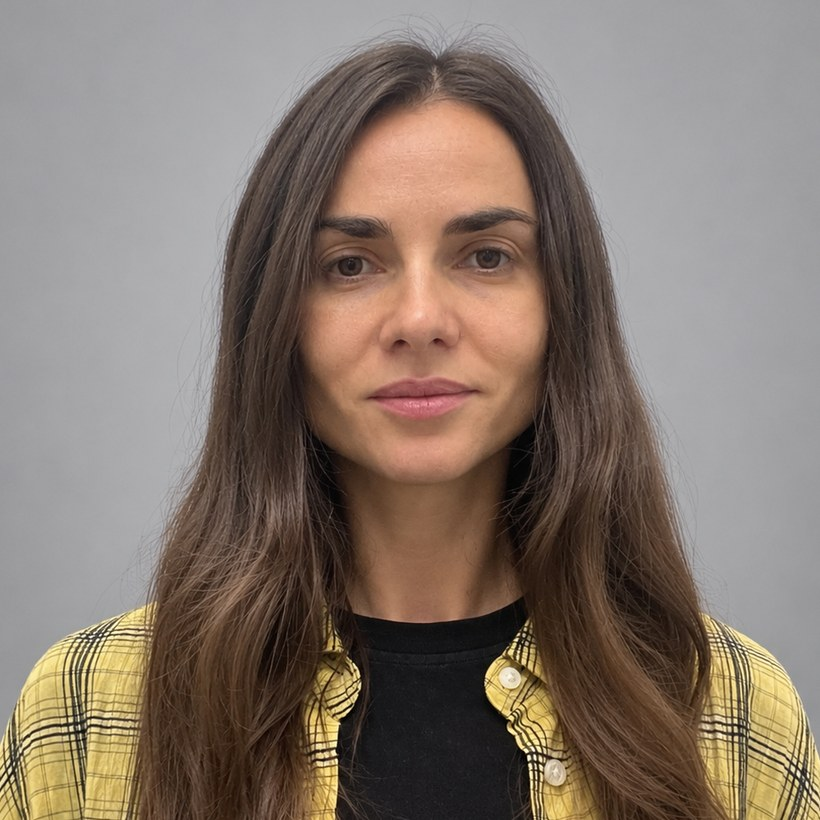
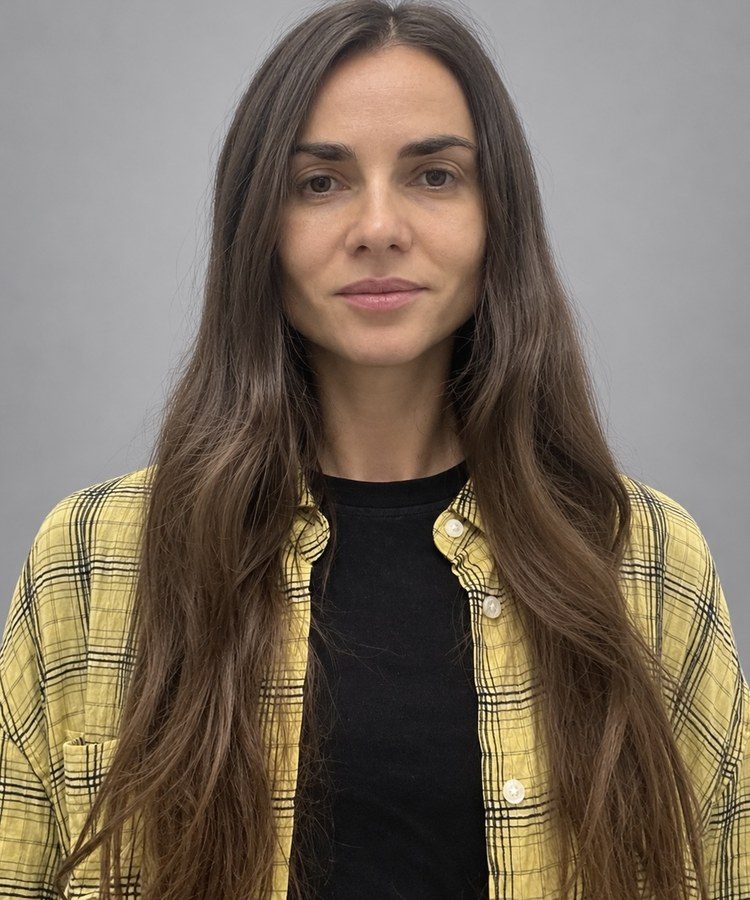
photo: full portrait in a rounded frame

diff --git a/styles.css b/styles.css
@@ -27,7 +27,7 @@ h1{font-size:clamp(2rem,4.6vw,2.9rem);font-weight:700;letter-spacing:-.03em;line
 .actions{display:flex;gap:.6rem;flex-wrap:wrap}
 .btn{font-family:var(--mono);font-size:.8rem;letter-spacing:.04em;text-decoration:none;padding:.65rem 1.15rem;border-radius:6px;background:var(--accent);color:#fff;border:1px solid var(--accent)}
 .btn.ghost{background:transparent;color:var(--fg);border-color:var(--line)}
-.portrait img{width:100%;aspect-ratio:1/1.04;object-fit:cover;display:block;border-radius:64% 36% 55% 45% / 42% 58% 42% 58%;filter:none}
+.portrait img{width:100%;display:block;border-radius:28px}
 
 /* section shell */
 section{padding:2.2rem 0;border-top:1px solid var(--line)}
